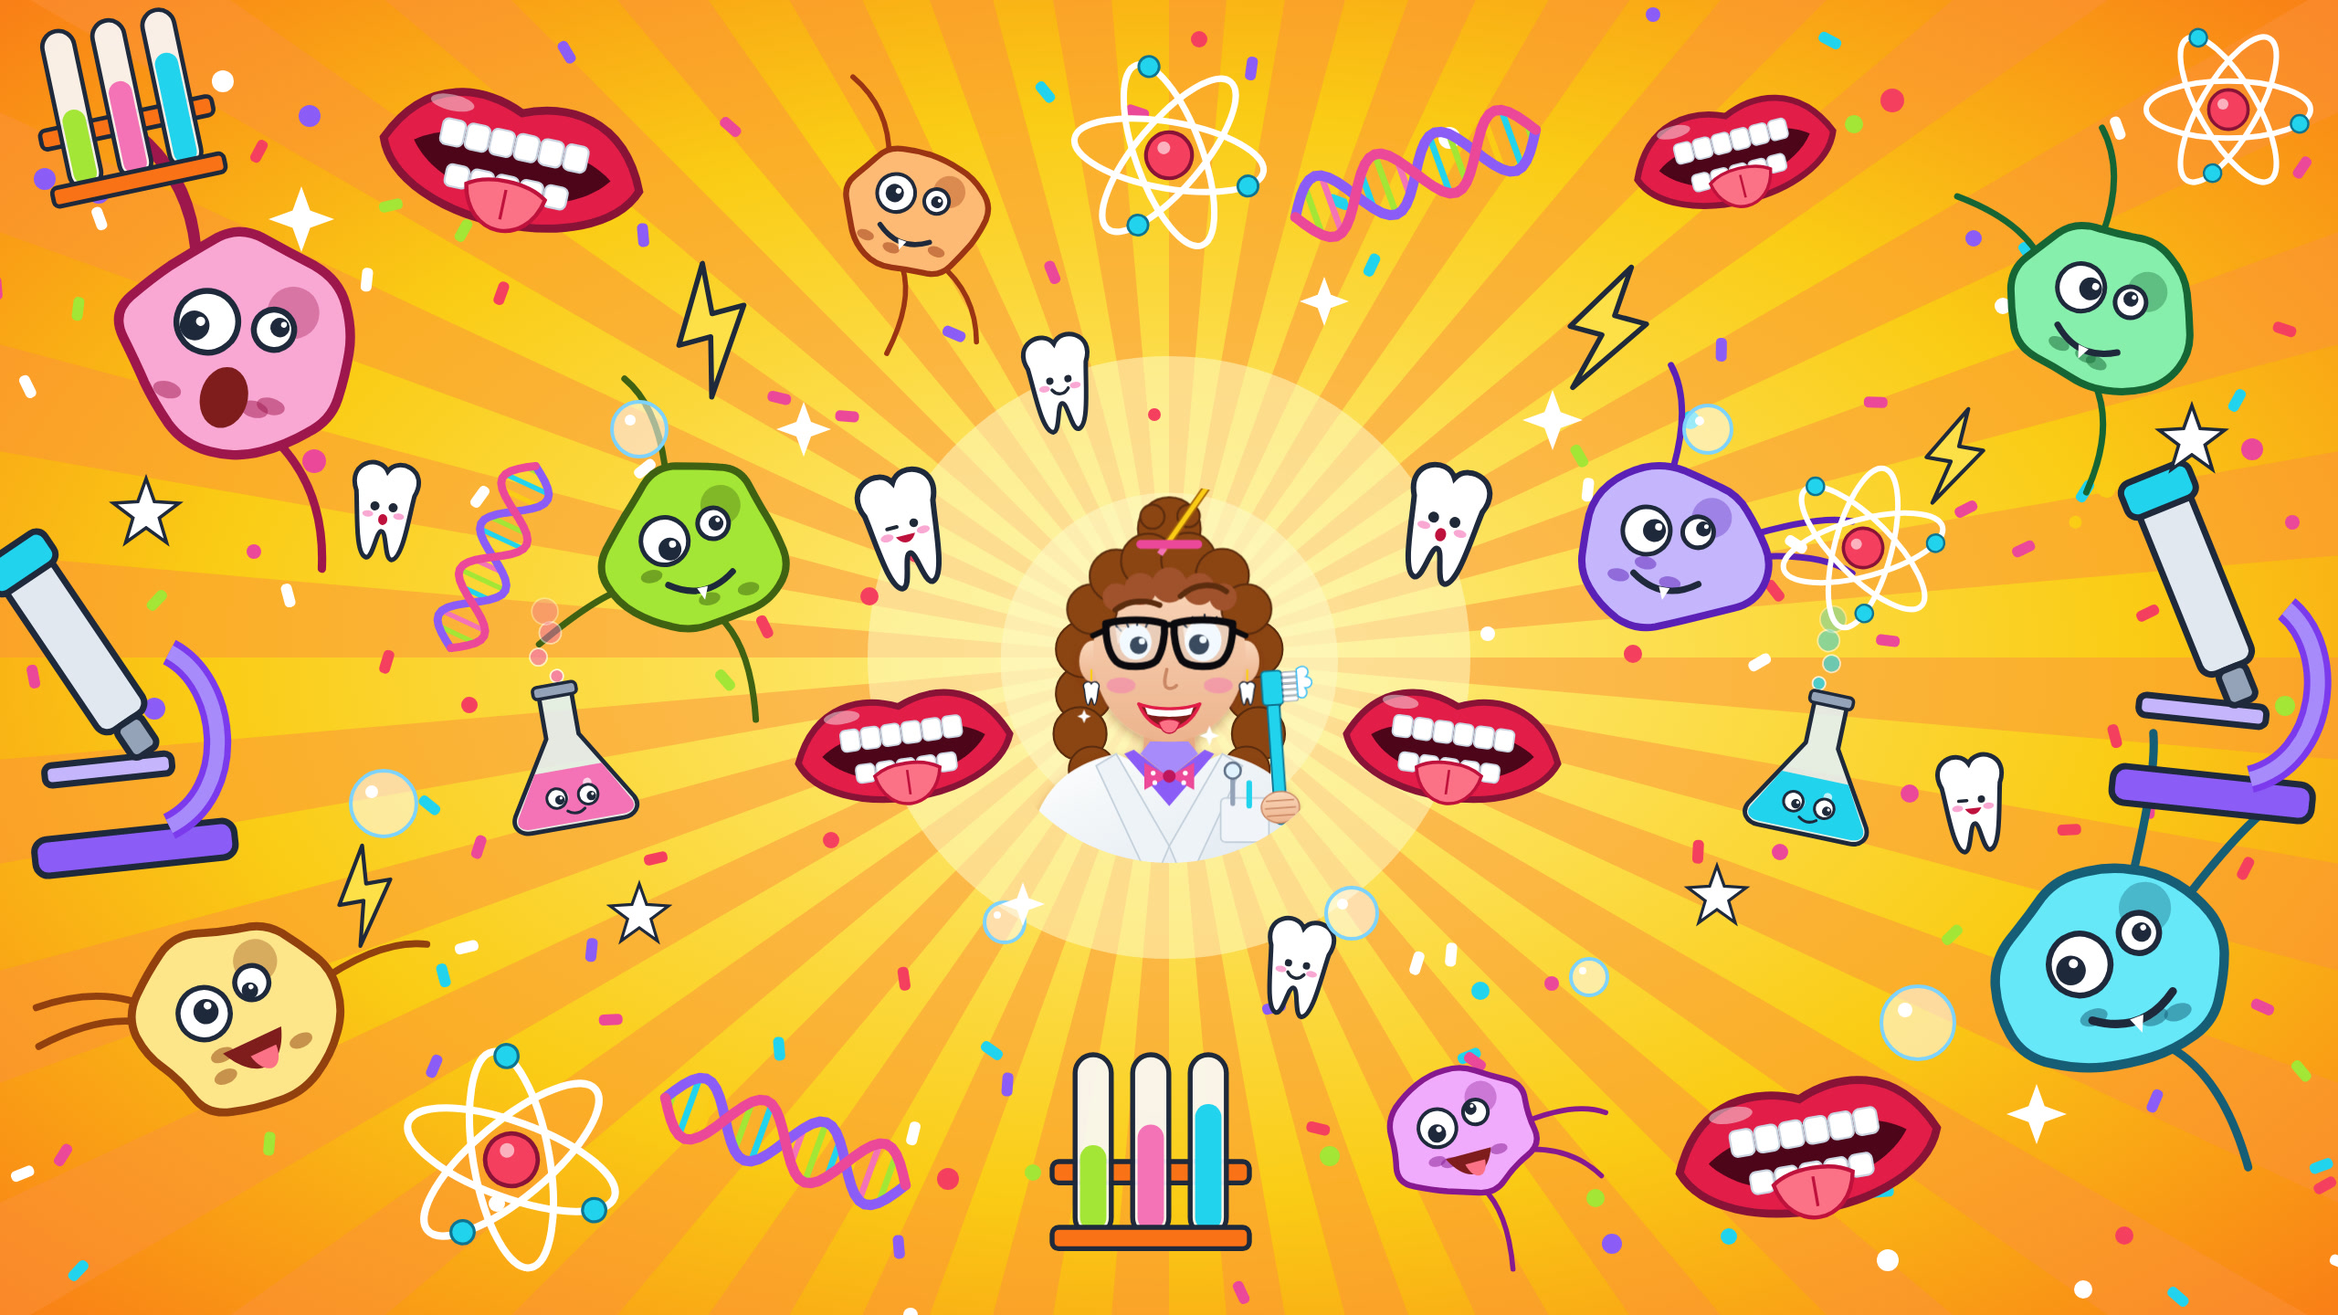
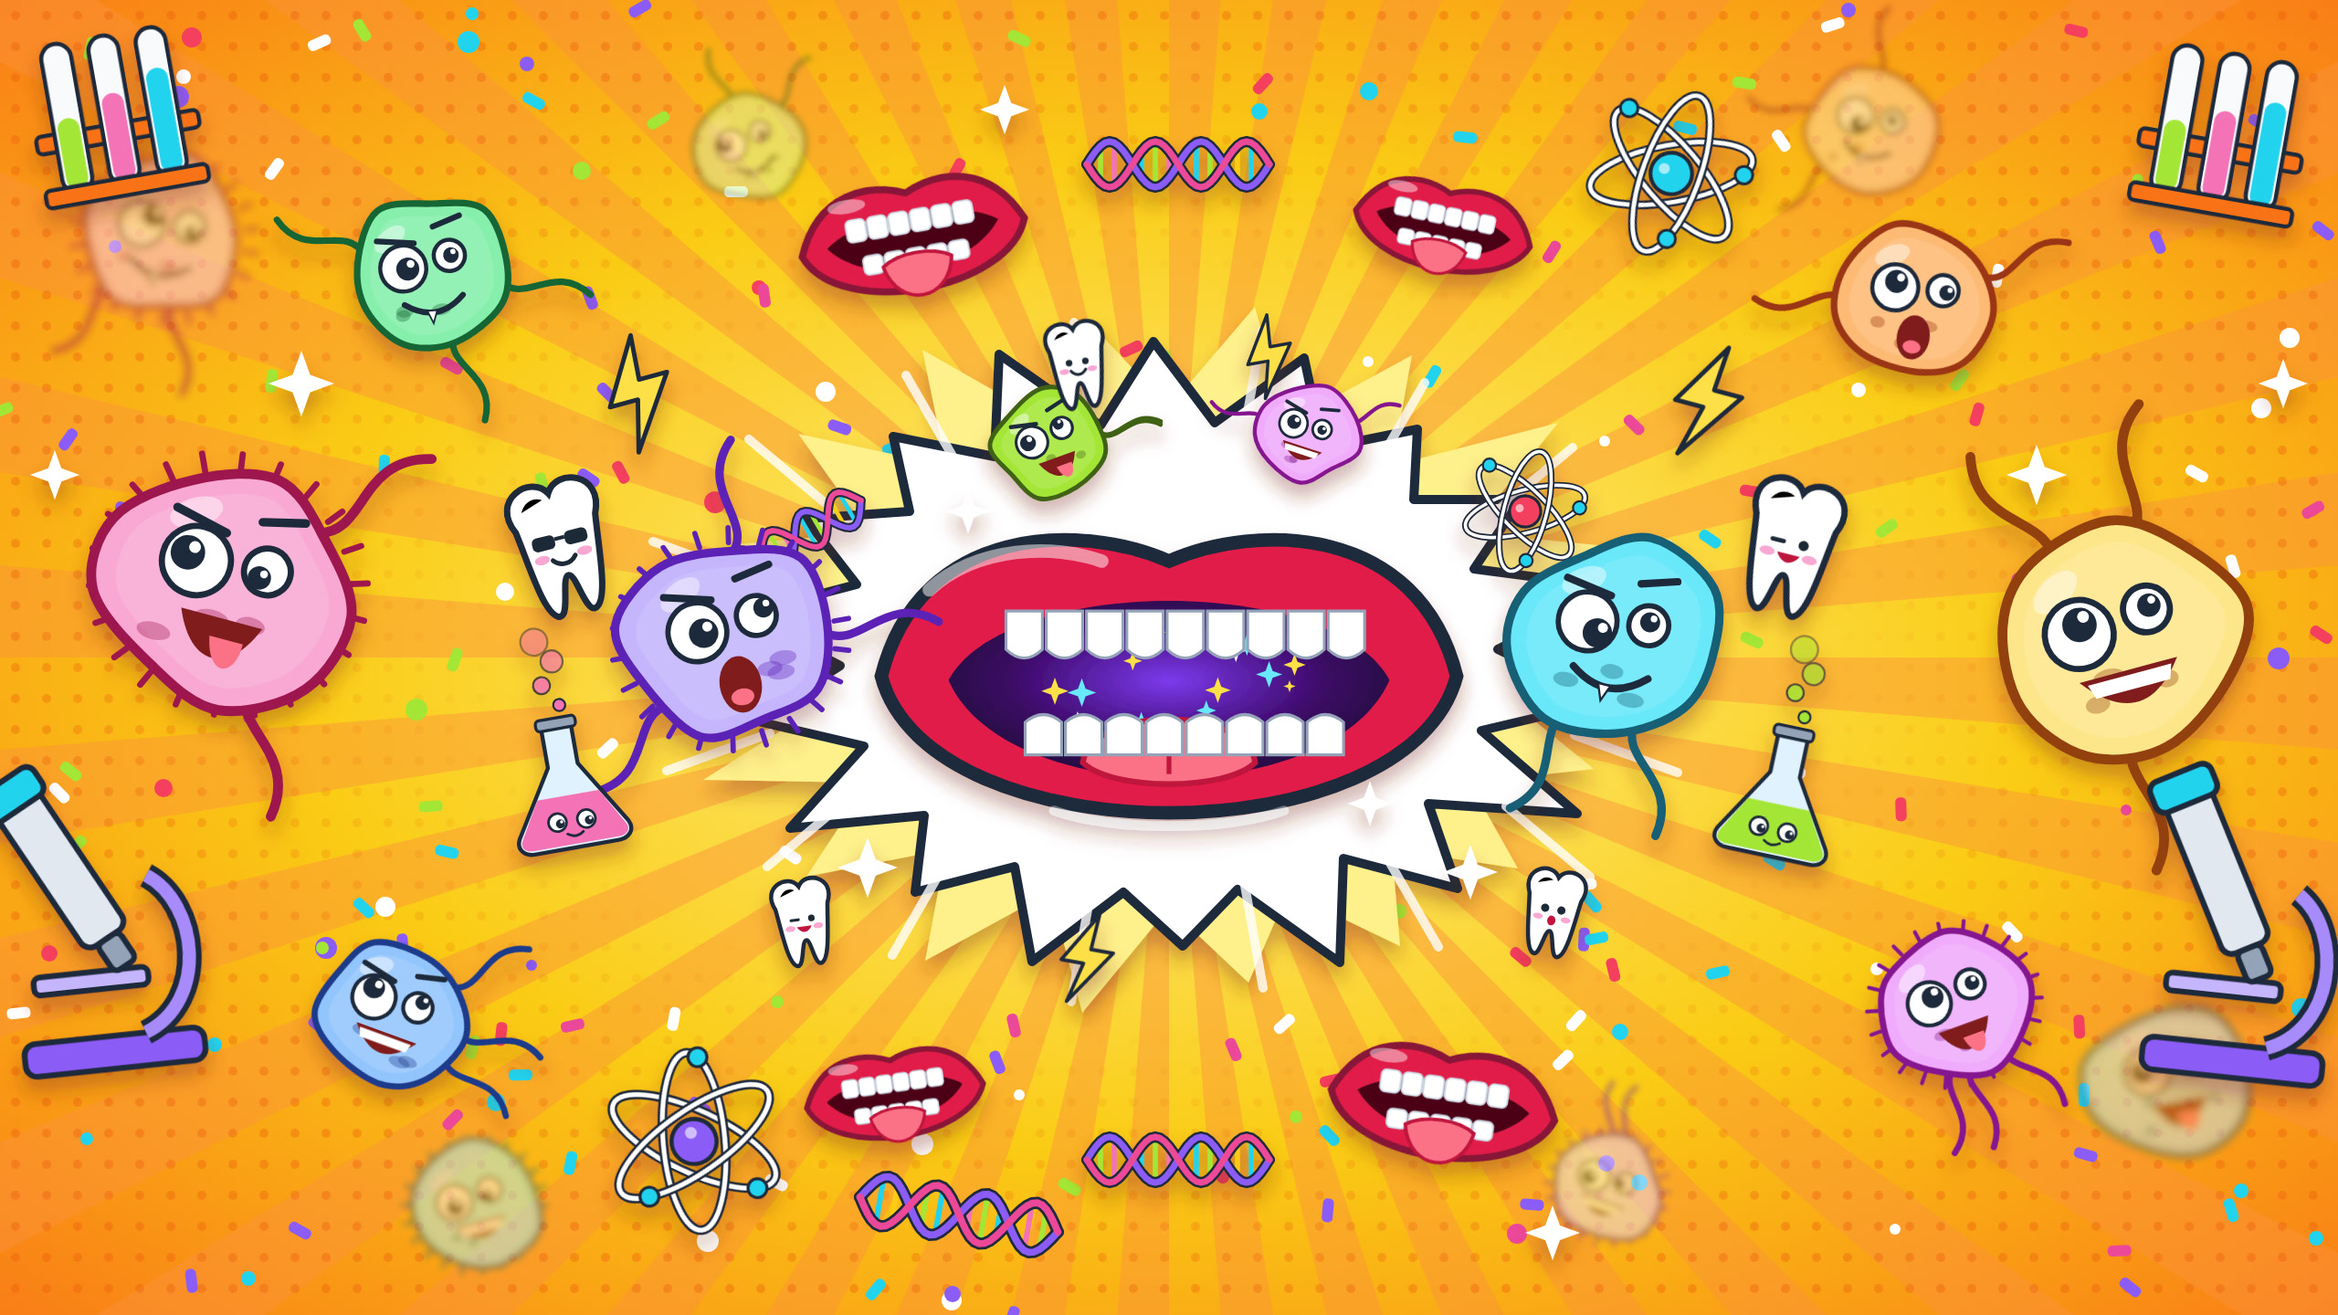
canal: bàner nou sense personatge (boca gegant còsmica, cèl·lules boges, ciència)
Claude-Session: https://claude.ai/code/session_01DsgF7MyAgCUNGwLAxUWVzU

diff --git a/canal/banner.py b/canal/banner.py
@@ -1,0 +1,136 @@
+import math, random
+random.seed(21)
+W,H=2560,1440; CX,CY=1280,720
+def smooth(pts):
+    n=len(pts); d=f"M{pts[0][0]:.1f} {pts[0][1]:.1f} "
+    for i in range(n):
+        p0,p1,p2,p3=pts[i-1],pts[i],pts[(i+1)%n],pts[(i+2)%n]
+        c1=(p1[0]+(p2[0]-p0[0])/6,p1[1]+(p2[1]-p0[1])/6); c2=(p2[0]-(p3[0]-p1[0])/6,p2[1]-(p3[1]-p1[1])/6)
+        d+=f"C{c1[0]:.1f} {c1[1]:.1f} {c2[0]:.1f} {c2[1]:.1f} {p2[0]:.1f} {p2[1]:.1f} "
+    return d+"Z"
+def eye(x,y,r,px=0.3,py=0.2):
+    return f'<circle cx="{x}" cy="{y}" r="{r}" fill="#fff" stroke="#1E293B" stroke-width="5"/><circle cx="{x+r*px:.1f}" cy="{y+r*py:.1f}" r="{r*0.5:.1f}" fill="#1E293B"/><circle cx="{x+r*px+r*0.16:.1f}" cy="{y+r*py-r*0.2:.1f}" r="{r*0.17:.1f}" fill="#fff"/>'
+def cell(x,y,s,rot,col,dark,seed,mood=None,op=1,blur=False):
+    rr=random.Random(seed); n=9
+    pts=[(100*(1+rr.uniform(-.13,.13))*math.cos(i/n*6.283),92*(1+rr.uniform(-.13,.13))*math.sin(i/n*6.283)) for i in range(n)]
+    d=smooth(pts)
+    flag="".join(f'<path d="M{88*math.cos(a):.0f} {80*math.sin(a):.0f} c{40*math.cos(a+.6):.0f} {40*math.sin(a+.6):.0f} {70*math.cos(a-.5):.0f} {70*math.sin(a-.5):.0f} {110*math.cos(a):.0f} {110*math.sin(a):.0f}" stroke="{dark}" stroke-width="8" fill="none" stroke-linecap="round"/>' for a in [rr.uniform(0,6.28) for _ in range(rr.choice([0,2,3]))])
+    cil="".join(f'<path d="M{100*math.cos(a):.0f} {92*math.sin(a):.0f} l{14*math.cos(a):.0f} {14*math.sin(a):.0f}" stroke="{dark}" stroke-width="5" stroke-linecap="round"/>' for a in [i/22*6.283 for i in range(22)]) if rr.random()<.4 else ""
+    org="".join(f'<ellipse cx="{rr.uniform(-50,50):.0f}" cy="{rr.uniform(25,60):.0f}" rx="{rr.uniform(8,14):.0f}" ry="7" fill="{dark}" opacity=".35"/>' for _ in range(3))
+    m=mood or rr.choice(["tongue","fang","wow","grin"])
+    mouth={"tongue":'<path d="M-32 28 C-14 72 18 72 36 28 Z" fill="#7F1D1D"/><path d="M-4 44 C2 76 24 74 24 44 Z" fill="#FB7185"/>',
+           "fang":'<path d="M-36 32 Q0 62 36 32" stroke="#1E293B" stroke-width="7" fill="none" stroke-linecap="round"/><path d="M-10 44 l12 1 l-7 15 Z" fill="#fff" stroke="#1E293B" stroke-width="2"/>',
+           "wow":'<ellipse cx="2" cy="44" rx="20" ry="27" fill="#7F1D1D"/><ellipse cx="2" cy="56" rx="11" ry="8" fill="#FB7185"/>',
+           "grin":'<path d="M-40 26 Q2 80 42 26 Z" fill="#7F1D1D"/><path d="M-34 30 L36 30 L32 42 L-30 42 Z" fill="#fff"/>'}[m]
+    brow=f'<path d="M-56 -50 L-12 -40" stroke="#1E293B" stroke-width="7" stroke-linecap="round"/><path d="M14 -56 L48 -64" stroke="#1E293B" stroke-width="7" stroke-linecap="round"/>' if rr.random()<.5 else ""
+    f=' filter="url(#bl)"' if blur else ""
+    return f'<g transform="translate({x},{y}) rotate({rot}) scale({s})" opacity="{op}"{f}>{flag}{cil}<path d="{d}" fill="{col}" stroke="{dark}" stroke-width="8"/><path d="{smooth([(p[0]*.82,p[1]*.82) for p in pts])}" fill="#fff" opacity=".12"/>{org}<ellipse cx="-40" cy="-50" rx="22" ry="12" fill="#fff" opacity=".45" transform="rotate(-30 -40 -50)"/>{eye(-30,-12,28,rr.uniform(-.45,.45),rr.uniform(-.45,.45))}{eye(28,-18,19,rr.uniform(-.45,.45),rr.uniform(-.45,.45))}{brow}{mouth}</g>'
+def tooth(x,y,s,rot,face,op=1):
+    f={'happy':'<circle cx="-10" cy="-4" r="4" fill="#1F2937"/><circle cx="10" cy="-4" r="4" fill="#1F2937"/><path d="M-9 6 C-4 13 4 13 9 6" stroke="#1F2937" stroke-width="3.5" fill="none" stroke-linecap="round"/>',
+       'wink':'<path d="M-15 -4 L-6 -4" stroke="#1F2937" stroke-width="3.5" stroke-linecap="round"/><circle cx="10" cy="-4" r="4" fill="#1F2937"/><path d="M-9 5 C-4 14 4 14 9 5 Z" fill="#BE123C"/>',
+       'wow':'<circle cx="-10" cy="-5" r="5" fill="#1F2937"/><circle cx="10" cy="-5" r="5" fill="#1F2937"/><ellipse cx="0" cy="9" rx="5" ry="6" fill="#BE123C"/>',
+       'cool':'<rect x="-22" y="-12" width="18" height="11" rx="4" fill="#1F2937"/><rect x="4" y="-12" width="18" height="11" rx="4" fill="#1F2937"/><path d="M-4 -8 H4" stroke="#1F2937" stroke-width="3"/><path d="M-9 8 C-4 14 4 14 9 8" stroke="#1F2937" stroke-width="3.5" fill="none" stroke-linecap="round"/>'}[face]
+    return f'<g transform="translate({x},{y}) rotate({rot}) scale({s})" opacity="{op}"><path d="M-32 -20 C-46 -50 -10 -62 0 -44 C10 -62 46 -50 32 -20 C28 6 26 50 14 52 C6 52 6 22 0 22 C-6 22 -6 52 -14 52 C-26 50 -28 6 -32 -20 Z" fill="#fff" stroke="#1E293B" stroke-width="5"/>{f}<ellipse cx="-17" cy="6" rx="6" ry="3.5" fill="#F9A8D4"/><ellipse cx="17" cy="6" rx="6" ry="3.5" fill="#F9A8D4"/><path d="M-24 -34 C-20 -42 -12 -44 -6 -40" stroke="#fff" stroke-width="0"/></g>'
+def lips(x,y,s,rot):
+    t="".join(f'<rect x="{-75+i*25}" y="-32" width="23" height="26" rx="6" fill="#fff" stroke="#CBD5E1" stroke-width="2"/>' for i in range(6))
+    b="".join(f'<rect x="{-62+i*25}" y="12" width="23" height="22" rx="6" fill="#fff" stroke="#CBD5E1" stroke-width="2"/>' for i in range(5))
+    return f'<g transform="translate({x},{y}) rotate({rot}) scale({s})"><path d="M-130 0 C-100 -70 -40 -70 0 -52 C40 -70 100 -70 130 0 C100 80 -100 80 -130 0 Z" fill="#E11D48" stroke="#881337" stroke-width="8"/><path d="M-100 -4 C-60 -36 60 -36 100 -4 C60 50 -60 50 -100 -4 Z" fill="#4C0519"/>{t}{b}<path d="M-40 28 C-30 80 30 80 40 28 C20 14 -20 14 -40 28 Z" fill="#FB7185" stroke="#BE123C" stroke-width="4"/><ellipse cx="-70" cy="-48" rx="22" ry="8" fill="#fff" opacity=".45"/></g>'
+def dna(x,y,s,rot):
+    a="";b="";r=""
+    for i in range(41):
+        t=i/40; yy=-200+400*t; xx=50*math.sin(t*4*math.pi)
+        a+=("M" if i==0 else "L")+f"{xx:.1f} {yy:.1f} "; b+=("M" if i==0 else "L")+f"{-xx:.1f} {yy:.1f} "
+        if i%3==1: r+=f'<path d="M{xx:.1f} {yy:.1f} L{-xx:.1f} {yy:.1f}" stroke="{["#22D3EE","#A3E635","#F472B6","#FACC15"][i%4]}" stroke-width="11" stroke-linecap="round"/>'
+    return f'<g transform="translate({x},{y}) rotate({rot}) scale({s})">{r}<path d="{a}" stroke="#1E293B" stroke-width="24" fill="none" stroke-linecap="round"/><path d="{b}" stroke="#1E293B" stroke-width="24" fill="none" stroke-linecap="round"/><path d="{a}" stroke="#8B5CF6" stroke-width="14" fill="none" stroke-linecap="round"/><path d="{b}" stroke="#EC4899" stroke-width="14" fill="none" stroke-linecap="round"/></g>'
+def atom(x,y,s,rot,core="#F43F5E"):
+    o="".join(f'<ellipse rx="150" ry="52" fill="none" stroke="#1E293B" stroke-width="16" transform="rotate({a})"/><ellipse rx="150" ry="52" fill="none" stroke="#fff" stroke-width="8" transform="rotate({a})"/>' for a in (0,60,120))
+    e="".join(f'<circle cx="{150*math.cos(math.radians(t)):.0f}" cy="{52*math.sin(math.radians(t)):.0f}" r="16" fill="#22D3EE" stroke="#1E293B" stroke-width="5" transform="rotate({a})"/>' for a,t in ((0,30),(60,200),(120,320)))
+    return f'<g transform="translate({x},{y}) rotate({rot}) scale({s})">{o}{e}<circle r="38" fill="{core}" stroke="#1E293B" stroke-width="7"/><circle cx="-11" cy="-11" r="10" fill="#fff" opacity=".6"/></g>'
+def flask(x,y,s,rot,col):
+    bub="".join(f'<circle cx="{(-1)**i*14:.0f}" cy="{-160-i*44:.0f}" r="{12+i*5}" fill="{col}" stroke="#1E293B" stroke-width="4" opacity="{1-i*.18:.2f}"/>' for i in range(4))
+    return f'''<g transform="translate({x},{y}) rotate({rot}) scale({s})">{bub}<path d="M-30 -120 L-30 -40 L-110 90 C-120 110 -105 125 -85 125 L85 125 C105 125 120 110 110 90 L30 -40 L30 -120 Z" fill="#E0F2FE" stroke="#1E293B" stroke-width="8" stroke-linejoin="round"/><path d="M-62 20 L62 20 L105 95 C112 110 100 118 85 118 L-85 118 C-100 118 -112 110 -105 95 Z" fill="{col}"/><rect x="-40" y="-136" width="80" height="22" rx="8" fill="#94A3B8" stroke="#1E293B" stroke-width="6"/>{eye(-30,70,18)}{eye(28,72,18)}<path d="M-14 96 Q2 108 18 96" stroke="#1E293B" stroke-width="5" fill="none" stroke-linecap="round"/></g>'''
+def microscope(x,y,s,rot):
+    return f'''<g transform="translate({x},{y}) rotate({rot}) scale({s})" stroke="#1E293B" stroke-width="7" stroke-linejoin="round"><rect x="-110" y="150" width="220" height="40" rx="14" fill="#8B5CF6"/><path d="M40 150 C120 120 120 0 60 -40" fill="none" stroke-width="30"/><path d="M40 150 C120 120 120 0 60 -40" fill="none" stroke-width="16" stroke="#A78BFA"/><rect x="-90" y="70" width="140" height="22" rx="8" fill="#C4B5FD"/><g transform="rotate(-28)"><rect x="-40" y="-170" width="60" height="200" rx="14" fill="#E2E8F0"/><rect x="-50" y="-200" width="80" height="40" rx="12" fill="#22D3EE"/><rect x="-26" y="30" width="32" height="40" rx="8" fill="#94A3B8"/></g></g>'''
+def tubes(x,y,s,rot):
+    cs=["#A3E635","#F472B6","#22D3EE"]
+    t="".join(f'<g transform="translate({-70+i*70},0)"><rect x="-22" y="-150" width="44" height="220" rx="22" fill="#F8FAFC" stroke="#1E293B" stroke-width="6"/><rect x="-16" y="{-40-i*25}" width="32" height="{104+i*25}" rx="16" fill="{cs[i]}"/></g>' for i in range(3))
+    return f'<g transform="translate({x},{y}) rotate({rot}) scale({s})"><rect x="-120" y="-20" width="240" height="26" rx="8" fill="#F97316" stroke="#1E293B" stroke-width="6"/>{t}<rect x="-120" y="60" width="240" height="26" rx="8" fill="#F97316" stroke="#1E293B" stroke-width="6"/></g>'
+def bolt(x,y,s,rot): return f'<g transform="translate({x},{y}) rotate({rot}) scale({s})"><path d="M10 -90 L-50 10 L-5 10 L-25 90 L50 -20 L5 -20 Z" fill="#FDE047" stroke="#1E293B" stroke-width="7" stroke-linejoin="round"/></g>'
+def sparkle(x,y,s,c="#fff"): return f'<path transform="translate({x},{y}) scale({s})" d="M0 -30 l8 22 l22 8 l-22 8 l-8 22 l-8 -22 l-22 -8 l22 -8 Z" fill="{c}"/>'
+def burst(x,y,R,r,n,fill,stroke,sw,rot=0):
+    pts=[]
+    for i in range(2*n):
+        rad=R if i%2==0 else r; rad*= (1+random.uniform(-.08,.08)) if i%2==0 else 1
+        a=math.radians(rot)+i*math.pi/n; pts.append(f"{x+rad*math.cos(a):.0f},{y+rad*math.sin(a)*0.72:.0f}")
+    return f'<polygon points="{" ".join(pts)}" fill="{fill}" stroke="{stroke}" stroke-width="{sw}" stroke-linejoin="round"/>'
+# ── boca gegant (portal) ──
+def megamouth(x,y,s):
+    stars="".join(sparkle(random.uniform(-150,150),random.uniform(-40,60),random.uniform(.2,.5),random.choice(["#FDE047","#fff","#67E8F9"])) for _ in range(14))
+    ut="".join(f'<path d="M{-170+i*42} -58 h38 v40 q-19 18 -38 0 Z" fill="#fff" stroke="#94A3B8" stroke-width="3"/>' for i in range(9))
+    lt="".join(f'<path d="M{-150+i*42} 92 h38 v-34 q-19 -16 -38 0 Z" fill="#fff" stroke="#94A3B8" stroke-width="3"/>' for i in range(8))
+    return f'''<g transform="translate({x},{y}) scale({s})">
+    <path d="M-300 10 C-260 -150 -90 -150 0 -110 C90 -150 260 -150 300 10 C250 200 -250 200 -300 10 Z" fill="#E11D48" stroke="#1E293B" stroke-width="14"/>
+    <path d="M-230 14 C-170 -96 170 -96 230 14 C170 150 -170 150 -230 14 Z" fill="url(#space)"/>
+    {stars}
+    <path d="M-90 100 C-80 40 80 40 90 100 C60 130 -60 130 -90 100 Z" fill="#FB7185" stroke="#BE123C" stroke-width="6"/><path d="M0 60 V112" stroke="#BE123C" stroke-width="5"/>
+    {ut}{lt}
+    <path d="M-250 -80 C-200 -126 -120 -128 -70 -110" stroke="#fff" stroke-width="14" fill="none" stroke-linecap="round" opacity=".5"/>
+    <path d="M-120 150 C-60 172 60 172 120 150" stroke="#fff" stroke-width="10" fill="none" stroke-linecap="round" opacity=".35"/></g>'''
+def speed(x,y,ang,L):
+    a=math.radians(ang); return f'<path d="M{x:.0f} {y:.0f} l{-L*math.cos(a):.0f} {-L*math.sin(a):.0f}" stroke="#fff" stroke-width="10" stroke-linecap="round" opacity=".8"/>'
+rays=""
+for i in range(40):
+    a0=i*9; a1=a0+4.5
+    p=lambda a:(CX+3200*math.cos(math.radians(a)),CY+3200*math.sin(math.radians(a)))
+    x0,y0=p(a0);x1,y1=p(a1)
+    rays+=f'<path d="M{CX} {CY} L{x0:.0f} {y0:.0f} L{x1:.0f} {y1:.0f} Z" fill="#FB923C" opacity=".45"/>'
+conf=""
+cols=["#EC4899","#22D3EE","#A3E635","#8B5CF6","#F43F5E","#FFFFFF"]
+for i in range(200):
+    x=random.uniform(0,W); y=random.uniform(0,H)
+    if abs(x-CX)<420 and abs(y-CY)<220: continue
+    c=random.choice(cols); r=random.uniform(0,180)
+    conf+= f'<circle cx="{x:.0f}" cy="{y:.0f}" r="{random.uniform(6,12):.0f}" fill="{c}"/>' if i%3==0 else f'<rect x="{x:.0f}" y="{y:.0f}" width="26" height="12" rx="5" fill="{c}" transform="rotate({r:.0f} {x:.0f} {y:.0f})"/>'
+back=[cell(180,260,0.9,10,"#FBCFE8","#9D174D",31,op=.5,blur=True),cell(2380,1180,0.9,-10,"#BAE6FD","#075985",32,op=.5,blur=True),
+      cell(820,160,0.6,-20,"#D9F99D","#3F6212",33,op=.5,blur=True),cell(1760,1300,0.6,20,"#E9D5FF","#6B21A8",34,op=.5,blur=True),
+      cell(2050,140,0.7,15,"#FED7AA","#9A3412",35,op=.5,blur=True),cell(520,1320,0.7,-15,"#A5F3FC","#155E75",36,op=.5,blur=True),
+      dna(1050,1330,0.55,-80)]
+# esclat central
+center=burst(CX,CY,520,380,18,"#FEF08A","#1E293B",0)+burst(CX,CY,470,360,18,"#FFFFFF","#1E293B",10,8)
+lines="".join(speed(CX+r*math.cos(math.radians(a)),CY+r*0.62*math.sin(math.radians(a)),a,120) for a,r in [(a,560+random.uniform(0,60)) for a in range(0,360,20)])
+mid=[
+ # zona segura: x 507..2053, y 508..932
+ megamouth(CX,CY+10,1.05),
+ cell(CX-130,CY-235,0.62,-20,"#A3E635","#3F6212",1,"tongue"), cell(CX+150,CY-245,0.55,18,"#F0ABFC","#86198F",2,"grin"),
+ atom(CX+390,CY-160,0.45,-15), dna(CX-410,CY-130,0.42,60),
+ cell(800,700,1.15,-10,"#C4B5FD","#5B21B6",3,"wow"), cell(1770,700,1.15,10,"#67E8F9","#155E75",4,"fang"),
+ tooth(615,600,1.4,-14,"cool"), tooth(1960,600,1.4,14,"wink"), flask(620,860,0.55,-10,"#F472B6"), flask(1950,870,0.55,12,"#A3E635"),
+ sparkle(CX-330,CY+230,1.1,"#fff"), sparkle(CX+330,CY+235,1.0,"#fff"), sparkle(1060,560,.8), sparkle(1500,880,.8),
+ # fora
+ cell(250,640,1.35,15,"#F9A8D4","#9D174D",5,"tongue"), cell(2320,700,1.35,-15,"#FDE68A","#92400E",6,"grin"),
+ cell(470,300,0.9,-10,"#86EFAC","#166534",7,"fang"), cell(2100,330,0.9,10,"#FDBA74","#9A3412",8,"wow"),
+ cell(430,1110,0.85,20,"#93C5FD","#1E3A8A",9,"grin"), cell(2140,1100,0.85,-20,"#F0ABFC","#86198F",10,"tongue"),
+ lips(1000,260,0.95,-10), lips(1580,1210,0.95,8), lips(1580,250,0.75,12), lips(980,1200,0.75,-8),
+ microscope(110,1000,0.9,-6), microscope(2460,1010,0.9,6), tubes(130,150,0.75,-10), tubes(2430,170,0.75,10),
+ atom(760,1250,0.65,25,"#8B5CF6"), atom(1830,190,0.6,-10,"#22D3EE"), dna(1290,180,0.5,90), dna(1290,1270,0.5,90),
+ bolt(700,430,0.7,-15), bolt(1870,440,0.7,15), bolt(1190,1050,0.55,10), bolt(1390,390,0.5,-10),
+ tooth(1180,400,0.9,-8,"happy"), tooth(1700,1000,0.9,10,"wow"), tooth(880,1010,0.9,-8,"wink"),
+]
+for x,y,s in [(330,420,1.2),(2230,520,1.1),(1100,120,.9),(1700,1350,1),(60,520,.9),(2500,420,.9)]: mid.append(sparkle(x,y,s))
+svg=f'''<svg xmlns="http://www.w3.org/2000/svg" width="{W}" height="{H}" viewBox="0 0 {W} {H}">
+<defs>
+<radialGradient id="bgB" cx=".5" cy=".5" r=".75"><stop offset="0" stop-color="#FEF08A"/><stop offset=".5" stop-color="#FACC15"/><stop offset="1" stop-color="#F97316"/></radialGradient>
+<radialGradient id="space" cx=".5" cy=".45" r=".6"><stop offset="0" stop-color="#7C3AED"/><stop offset=".6" stop-color="#3B0764"/><stop offset="1" stop-color="#1E0B36"/></radialGradient>
+<pattern id="dots" width="34" height="34" patternUnits="userSpaceOnUse"><circle cx="17" cy="17" r="5" fill="#EA580C" opacity=".35"/></pattern>
+<radialGradient id="fadeC" cx=".5" cy=".5" r=".5"><stop offset=".55" stop-color="#000"/><stop offset="1" stop-color="#fff"/></radialGradient>
+<mask id="mDots"><rect width="{W}" height="{H}" fill="url(#fadeC)"/></mask>
+<filter id="bl"><feGaussianBlur stdDeviation="5"/></filter>
+<filter id="sh" x="-30%" y="-30%" width="160%" height="160%"><feDropShadow dx="0" dy="14" stdDeviation="10" flood-color="#7C2D12" flood-opacity=".35"/></filter>
+</defs>
+<rect width="{W}" height="{H}" fill="url(#bgB)"/>{rays}
+<rect width="{W}" height="{H}" fill="url(#dots)" mask="url(#mDots)" transform="scale(1)"/>
+{conf}{''.join(back)}
+<g filter="url(#sh)">{center}</g>{lines}
+<g filter="url(#sh)">{''.join(mid)}</g>
+</svg>'''
+open('banner.svg','w').write(svg)
